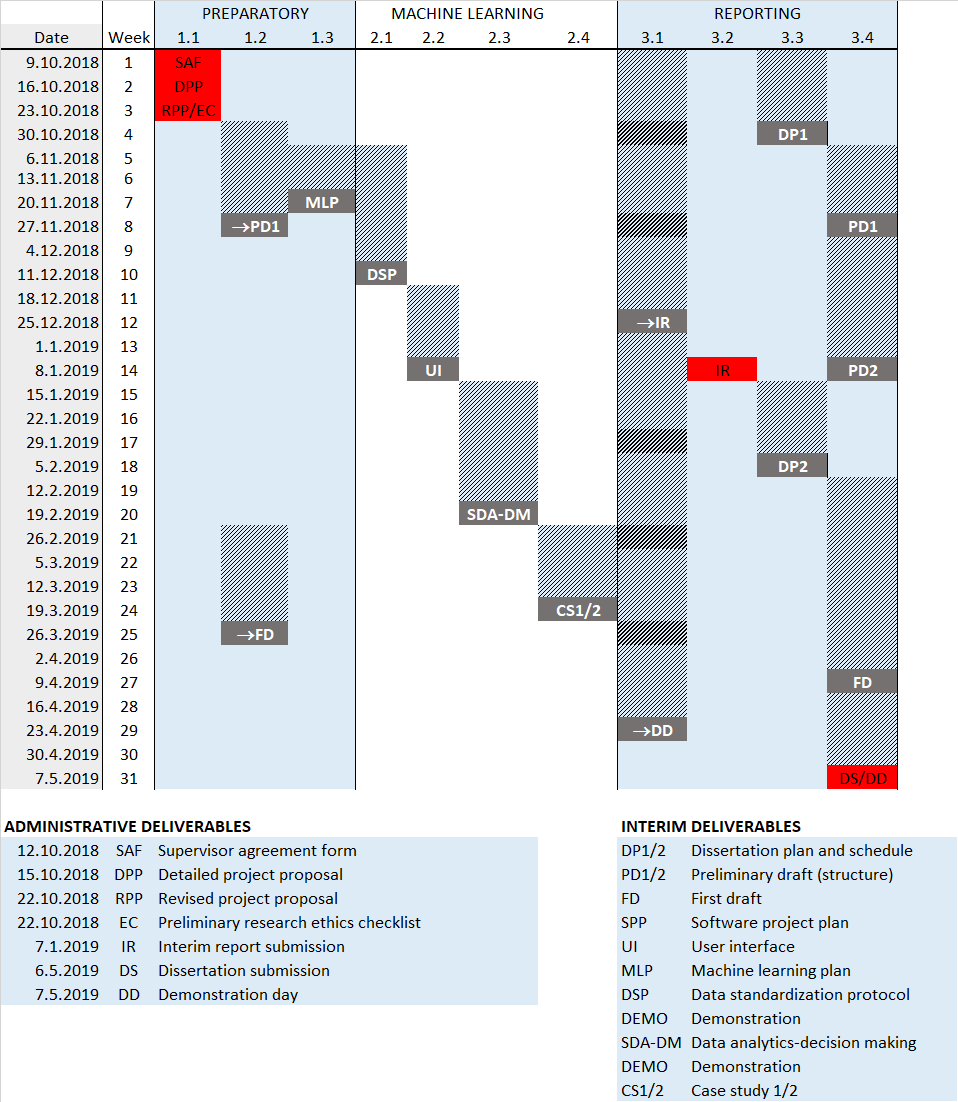
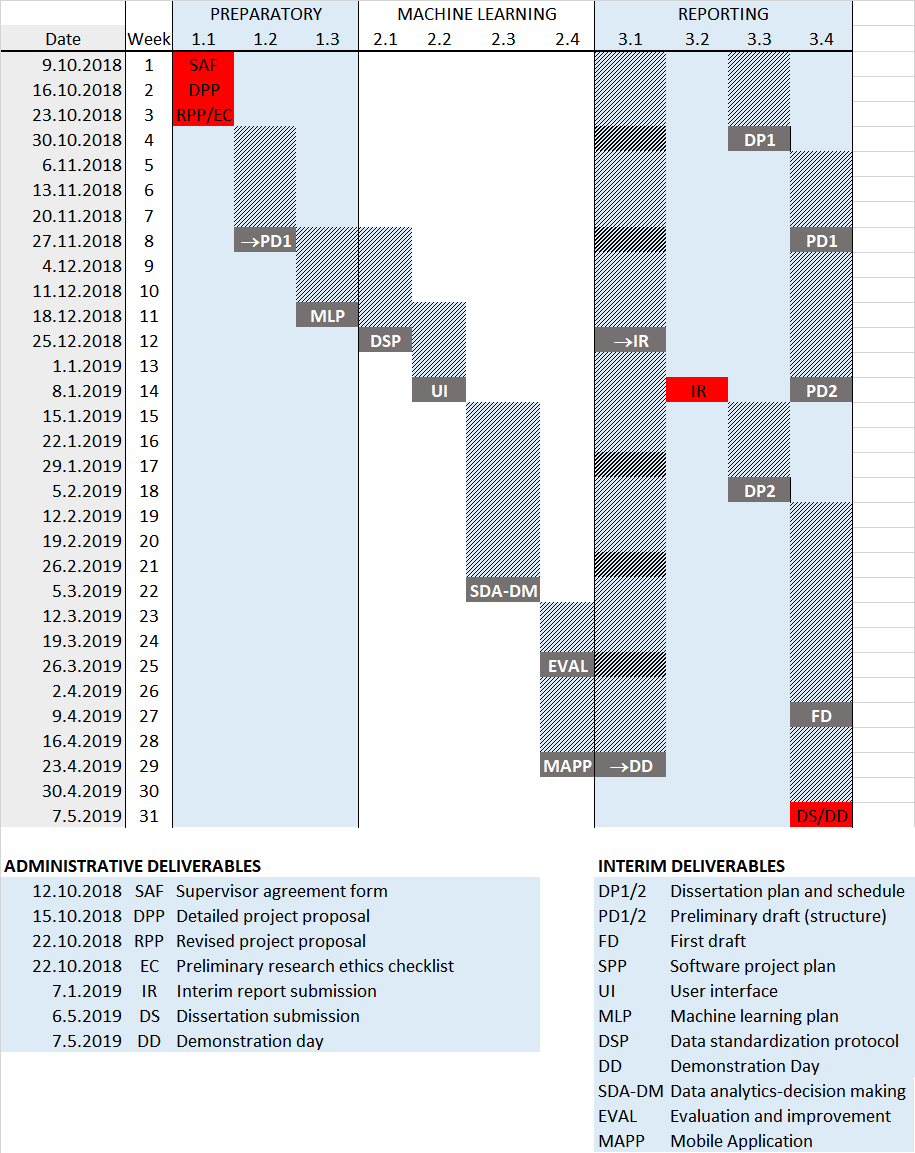
Update webpage for progress

diff --git a/docs/detail.md b/docs/detail.md
@@ -40,8 +40,6 @@ specific objectives are:
 
 &emsp;&emsp;Software development will utilize Waterfall model of software development [14]. The waterfall model is suitable because this work will result in a working prototype and not a commercial product. The main priority of this project is functional software prototype that will effectively deal with analytics of highly dimensional noisy data. The theoretical technological and engineering aspects of the software development will be considered and deployed as a secondary priority in this project.
 
-Detailed Plan has not finished yet.
-
 ---
 
 # Project Schedule

diff --git a/docs/progress.md b/docs/progress.md
@@ -4,10 +4,12 @@ layout: progress
 
 # Agile Project Plan
 
-No record.
+Updated on 14-Nov-2018
+![Branching](https://raw.githubusercontent.com/5656hcx/HDMProject/master/docs/assets/workflow.png)
 
 ---
 
 # Gantt chart
 
-No record.
+Updated on 14-Nov-2018
+![Branching](https://raw.githubusercontent.com/5656hcx/HDMProject/master/docs/assets/ganttchart.png)
